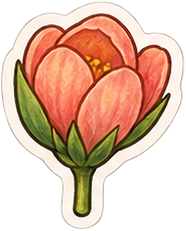
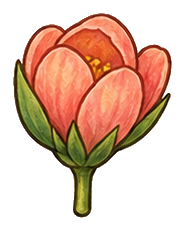
Plant: leaves grow seamlessly off the stem
Each sheet piece carried its own cream die-cut border, so every leaf
brought a white cap to where it met the stem. Now:
- Pieces are stripped to art + dark outline (border and its soft rim
  removed); one border is drawn live around the whole plant with an SVG
  filter, so it wraps leaves as they grow.
- Buds are cut out of base.png into bud-N.png; each shrinks away as its
  leaf grows from the same spot on the bare stem.
- Anchors re-measured on the borderless art; leaf stems now attach at
  the stem's center line.

diff --git a/src/components/PlantSticker/PlantSticker.jsx b/src/components/PlantSticker/PlantSticker.jsx
@@ -7,6 +7,10 @@ import './PlantSticker.css';
 // Art comes from one sticker sheet (public/plant/*.png), so every piece
 // shares a scale. All positions below are in base.png pixels.
 //
+// The pieces have had their own cream die-cut borders removed; one border
+// is drawn live around the whole plant instead (see the #plant-outline
+// filter), so leaves join the stem seamlessly as they grow.
+//
 // The plant box adds room around base.png: on top for the flower, on the
 // sides for leaves that reach past the pot.
 const BASE = { w: 256, h: 661 };
@@ -14,27 +18,31 @@ const PAD = { top: 120, side: 34 };
 const BOX = { w: BASE.w + PAD.side * 2, h: BASE.h + PAD.top };
 const SCALE = 0.34; // rendered px per base.png px
 
-// Bud centers on base.png's stem, bottom to top (alternating sides). Each
-// one is a discovery, in the order of data/discoveries.js.
+// Bud centers along the stem, bottom to top (alternating sides). Each one
+// is a discovery, in the order of data/discoveries.js. The buds were cut out
+// of base.png into bud-N.png (box = where that piece sits on base.png), so
+// the bare stem can sprout a leaf in the bud's place.
 const NODES = [
-  { x: 154, y: 397, side: 1 },
-  { x: 105, y: 335, side: -1 },
-  { x: 152, y: 277, side: 1 },
-  { x: 104, y: 213, side: -1 },
-  { x: 150, y: 157, side: 1 },
-  { x: 105, y: 90, side: -1 },
+  { x: 154, y: 397, side: 1, bud: { x: 134, y: 381, w: 36, h: 41 } },
+  { x: 105, y: 335, side: -1, bud: { x: 91, y: 319, w: 33, h: 41 } },
+  { x: 152, y: 277, side: 1, bud: { x: 132, y: 261, w: 34, h: 41 } },
+  { x: 104, y: 213, side: -1, bud: { x: 90, y: 197, w: 32, h: 41 } },
+  { x: 150, y: 157, side: 1, bud: { x: 131, y: 141, w: 33, h: 41 } },
+  { x: 105, y: 90, side: -1, bud: { x: 91, y: 79, w: 30, h: 36 } },
 ];
+// Stem center line on base.png (it leans very slightly to the right).
+const stemX = (y) => 124 + ((y - 30) * 5) / 410;
 
 // Leaf art, with (ax, ay) = the tip of the leaf's own stem, which is where it
 // attaches to the bud and grows from. Larger leaves go lower on the plant.
 const LEAVES = {
   left: [
-    { src: '/plant/leaf-left-b.png', w: 228, h: 140, ax: 225, ay: 111 },
-    { src: '/plant/leaf-left-a.png', w: 197, h: 113, ax: 194, ay: 84 },
+    { src: '/plant/leaf-left-b.png', w: 228, h: 140, ax: 212, ay: 110 },
+    { src: '/plant/leaf-left-a.png', w: 197, h: 113, ax: 182, ay: 85 },
   ],
   right: [
-    { src: '/plant/leaf-right-b.png', w: 243, h: 146, ax: 2, ay: 113 },
-    { src: '/plant/leaf-right-a.png', w: 200, h: 114, ax: 2, ay: 83 },
+    { src: '/plant/leaf-right-b.png', w: 243, h: 146, ax: 14, ay: 116 },
+    { src: '/plant/leaf-right-a.png', w: 200, h: 114, ax: 14, ay: 85 },
   ],
 };
 const leafFor = (i) => {
@@ -42,17 +50,17 @@ const leafFor = (i) => {
   return set[i < 3 ? 0 : 1];
 };
 const leafScale = (i) => 0.5 - i * 0.015; // lower leaves a touch bigger
-// Attach a little in from the bud center (toward the main stem) so the
-// leaf's own stem covers the bud instead of leaving it peeking out.
-const LEAF_TUCK = 12;
+// Where a leaf's stem tip joins the main stem: just past the stem's center
+// line, a little below the bud (where the bud's own stalk joined).
+const leafRoot = (n) => ({ x: stemX(n.y) + n.side * 2, y: n.y + 8 });
 
 // Flower stages, anchored at the bottom of their stem, which sits on the
 // stem just under the top bud of base.png.
 const FLOWER_AT = { x: 124, y: 64 };
 const FLOWER = [
-  { src: '/plant/flower-bud.png', w: 124, h: 208, ax: 59, ay: 205, scale: 0.42 },
-  { src: '/plant/flower-half.png', w: 186, h: 231, ax: 82, ay: 228, scale: 0.5 },
-  { src: '/plant/flower-full.png', w: 292, h: 261, ax: 129, ay: 258, scale: 0.6 },
+  { src: '/plant/flower-bud.png', w: 124, h: 208, ax: 62, ay: 194, scale: 0.42 },
+  { src: '/plant/flower-half.png', w: 186, h: 231, ax: 81, ay: 217, scale: 0.5 },
+  { src: '/plant/flower-full.png', w: 292, h: 261, ax: 135, ay: 248, scale: 0.6 },
 ];
 const BLOOM_STEP_MS = 420;
 
@@ -133,6 +141,25 @@ export default function PlantSticker({ x, y, rotate, z, enterDelay, bringToFront
       label={`Little plant: ${found.length} of ${discoveries.length} leaves grown${bloomed ? ', in full bloom' : ''}`}
     >
       <div className="plant" ref={scope} style={{ width: BOX.w * SCALE, height: BOX.h * SCALE }}>
+        {/* One die-cut border around the combined silhouette: grow the
+            alpha, round it off, fill it cream, and lay the art on top. */}
+        <svg className="plant-defs" aria-hidden="true" focusable="false">
+          <filter id="plant-outline" x="-15%" y="-15%" width="130%" height="130%" colorInterpolationFilters="sRGB">
+            <feMorphology in="SourceAlpha" operator="dilate" radius="3.5" result="grown" />
+            <feGaussianBlur in="grown" stdDeviation="1.2" result="soft" />
+            <feComponentTransfer in="soft" result="rounded">
+              <feFuncA type="linear" slope="3" intercept="-0.6" />
+            </feComponentTransfer>
+            <feFlood floodColor="#f4f1ea" />
+            <feComposite in2="rounded" operator="in" result="border" />
+            <feMerge>
+              <feMergeNode in="border" />
+              <feMergeNode in="SourceGraphic" />
+            </feMerge>
+          </filter>
+        </svg>
+
+        <div className="plant-art">
         <img
           className="plant-piece"
           src="/plant/base.png"
@@ -141,7 +168,31 @@ export default function PlantSticker({ x, y, rotate, z, enterDelay, bringToFront
           style={{ left: PAD.side * SCALE, top: PAD.top * SCALE, width: BASE.w * SCALE, height: BASE.h * SCALE }}
         />
 
-        {/* Leaves — each grows from its bud once found */}
+        {/* Buds — shrink back into the stem as their leaf grows */}
+        {NODES.map((n, i) => {
+          const isFound = found.includes(discoveries[i].id);
+          return (
+            <motion.img
+              key={`bud-${discoveries[i].id}`}
+              className="plant-piece"
+              src={`/plant/bud-${i + 1}.png`}
+              alt=""
+              draggable="false"
+              style={{
+                left: (PAD.side + n.bud.x) * SCALE,
+                top: (PAD.top + n.bud.y) * SCALE,
+                width: n.bud.w * SCALE,
+                height: n.bud.h * SCALE,
+                transformOrigin: n.side > 0 ? '0% 70%' : '100% 70%', // stem side
+              }}
+              initial={false}
+              animate={{ scale: isFound ? 0 : 1, opacity: isFound ? 0 : 1 }}
+              transition={t({ duration: 0.25 })}
+            />
+          );
+        })}
+
+        {/* Leaves — each grows from the stem where its bud was, once found */}
         {NODES.map((n, i) => {
           const art = leafFor(i);
           const isFound = found.includes(discoveries[i].id);
@@ -152,7 +203,7 @@ export default function PlantSticker({ x, y, rotate, z, enterDelay, bringToFront
               src={art.src}
               alt=""
               draggable="false"
-              style={placeAt(art, n.x - n.side * LEAF_TUCK, n.y + 4, leafScale(i))}
+              style={placeAt(art, leafRoot(n).x, leafRoot(n).y, leafScale(i))}
               initial={false}
               animate={{ scale: isFound ? 1 : 0, rotate: isFound ? 0 : 40 * n.side }}
               transition={t(spring)}
@@ -177,6 +228,8 @@ export default function PlantSticker({ x, y, rotate, z, enterDelay, bringToFront
             />
           )}
         </AnimatePresence>
+
+        </div>
 
         {/* Hit targets + hints. Real buttons so keyboard and screen-reader
             users can read the hints too. */}

diff --git a/src/components/PlantSticker/PlantSticker.css b/src/components/PlantSticker/PlantSticker.css
@@ -3,6 +3,20 @@
   transform-origin: 50% 95%; /* wiggles from the pot, like it's rooted */
 }
 
+/* All art pieces share one live die-cut border (filter defined inline in
+   PlantSticker.jsx), so leaves and flower join the stem seamlessly. */
+.plant-art {
+  position: absolute;
+  inset: 0;
+  filter: url(#plant-outline);
+}
+.plant-defs {
+  position: absolute;
+  width: 0;
+  height: 0;
+  overflow: hidden;
+}
+
 /* Every piece of sticker-sheet art is absolutely placed in base.png px
    (converted in PlantSticker.jsx). */
 .plant-piece {
